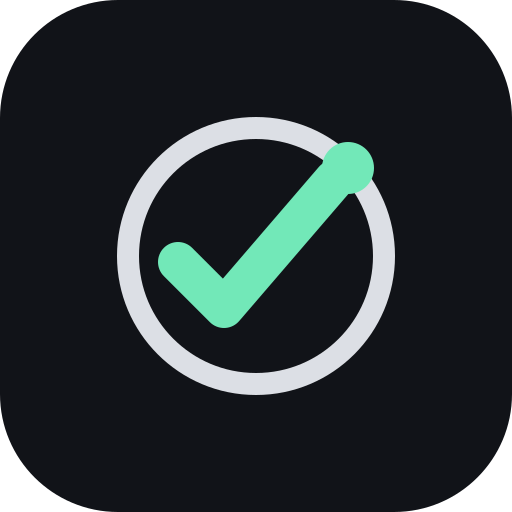
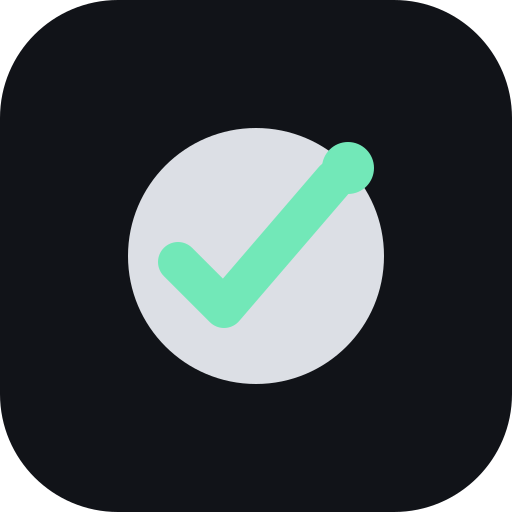
w

Changed region(s): [[0.2188, 0.2188, 0.7812, 0.7812]]

diff --git a/app.html b/app.html
@@ -12,7 +12,7 @@
     <meta name="mobile-web-app-capable" content="yes" />
     <title>Habit Day</title>
     <link rel="manifest" href="manifest.webmanifest?v=36" />
-    <link rel="icon" href="icon.svg?v=44" type="image/svg+xml" data-theme-icon="true" />
+    <link rel="icon" href="icon.svg?v=45" type="image/svg+xml" data-theme-icon="true" />
     <link rel="apple-touch-icon" href="apple-touch-icon.png?v=44" sizes="180x180" data-theme-icon="true" />
     <link rel="icon" href="icon-192.png?v=44" type="image/png" sizes="192x192" data-theme-icon="true" />
     <link rel="preconnect" href="https://fonts.googleapis.com" />

diff --git a/calendar.html b/calendar.html
@@ -7,7 +7,7 @@
       content="width=device-width, initial-scale=1.0, viewport-fit=cover"
     />
     <meta name="theme-color" content="#26735b" />
-    <link rel="icon" href="icon.svg?v=44" type="image/svg+xml" data-theme-icon="true" />
+    <link rel="icon" href="icon.svg?v=45" type="image/svg+xml" data-theme-icon="true" />
     <link rel="apple-touch-icon" href="apple-touch-icon.png?v=44" sizes="180x180" data-theme-icon="true" />
     <link rel="icon" href="icon-192.png?v=44" type="image/png" sizes="192x192" data-theme-icon="true" />
     <meta name="apple-mobile-web-app-capable" content="yes" />

diff --git a/photos.html b/photos.html
@@ -7,7 +7,7 @@
       content="width=device-width, initial-scale=1.0, viewport-fit=cover"
     />
     <meta name="theme-color" content="#26735b" />
-    <link rel="icon" href="icon.svg?v=44" type="image/svg+xml" data-theme-icon="true" />
+    <link rel="icon" href="icon.svg?v=45" type="image/svg+xml" data-theme-icon="true" />
     <link rel="apple-touch-icon" href="apple-touch-icon.png?v=44" sizes="180x180" data-theme-icon="true" />
     <link rel="icon" href="icon-192.png?v=44" type="image/png" sizes="192x192" data-theme-icon="true" />
     <meta name="apple-mobile-web-app-capable" content="yes" />

diff --git a/theme.js b/theme.js
@@ -1,6 +1,6 @@
 const themeStorageKey = "habit-theme";
 const themes = ["original", "kuromi", "friends", "gintama", "toothless"];
-const ICON_BUST = "44";
+const ICON_BUST = "45";
 
 const appIcons = {
   svg: "icon.svg",

diff --git a/weekly.html b/weekly.html
@@ -7,7 +7,7 @@
       content="width=device-width, initial-scale=1.0, viewport-fit=cover"
     />
     <meta name="theme-color" content="#26735b" />
-    <link rel="icon" href="icon.svg?v=44" type="image/svg+xml" data-theme-icon="true" />
+    <link rel="icon" href="icon.svg?v=45" type="image/svg+xml" data-theme-icon="true" />
     <link rel="apple-touch-icon" href="apple-touch-icon.png?v=44" sizes="180x180" data-theme-icon="true" />
     <link rel="icon" href="icon-192.png?v=44" type="image/png" sizes="192x192" data-theme-icon="true" />
     <meta name="apple-mobile-web-app-capable" content="yes" />